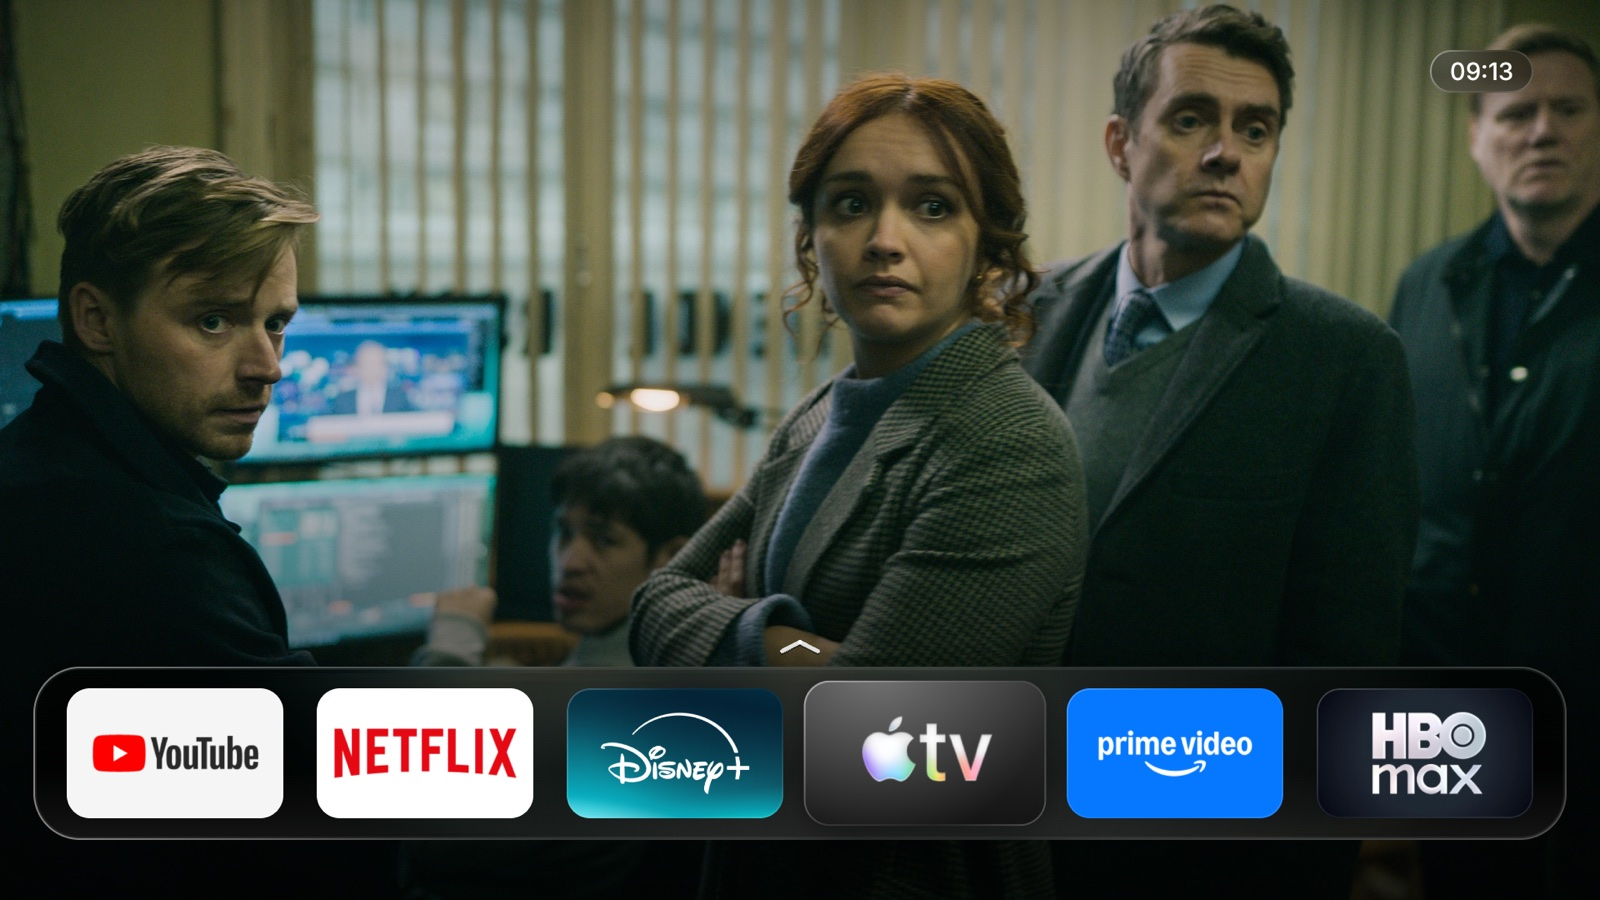
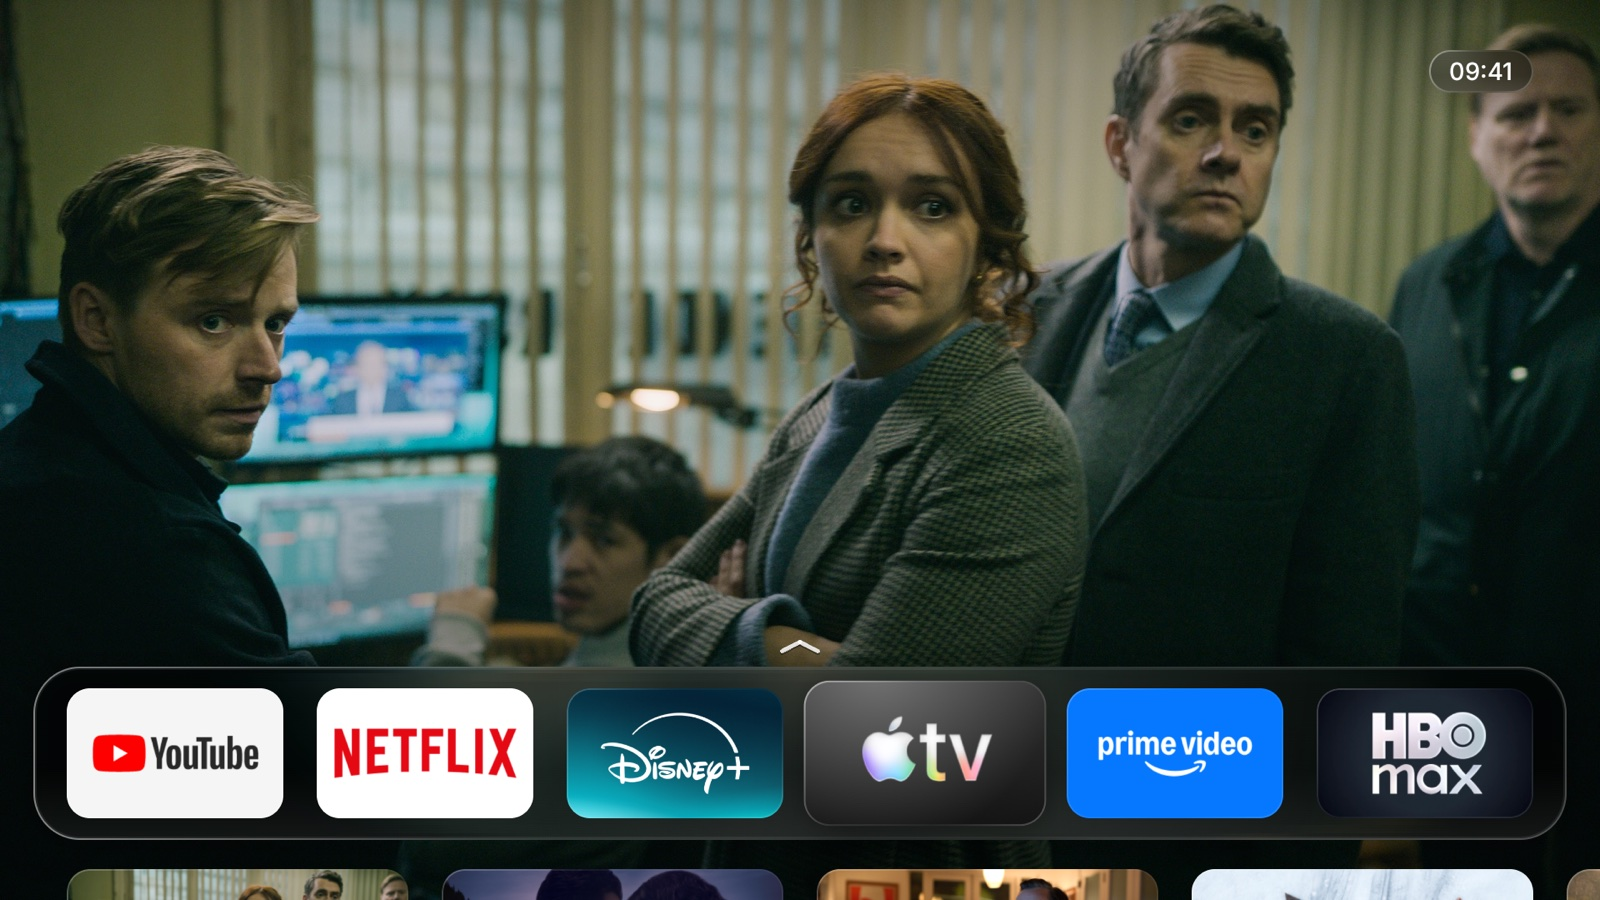
Peek the next row, brighten the stage, and enlarge YouTube's tiles
Compared against Apple's Top Shelf guidelines and tvOS 26 screenshot:

- The tops of Continue Watching peek in below the dock at rest, as the
  next row does on tvOS. Its heading appears when focus moves down.
- Artwork stays bright down behind the dock, whose glass does the
  dimming. Full screen still darkens toward the bottom for its text.
- Thumbnail rows, like YouTube's, use tvOS's 16:9 row size of 782 by 440
  pt, filling the stage instead of leaving its top half empty.

Trailers on the stage aren't built: none of the six dock apps publish
preview videos to the TV provider. README home image and text updated.

Changed region(s): [[0.0312, 0.9644, 1.0, 1.0], [0.1562, 0.6533, 0.25, 0.7156], [0.9062, 0.0622, 0.9375, 0.0933]]

diff --git a/feature/home/src/main/java/app/lumen/feature/home/UpNextRow.kt b/feature/home/src/main/java/app/lumen/feature/home/UpNextRow.kt
@@ -30,6 +30,7 @@ import androidx.compose.ui.layout.boundsInRoot
 import androidx.compose.ui.layout.onGloballyPositioned
 import androidx.compose.ui.platform.LocalContext
 import androidx.compose.ui.platform.LocalView
+import androidx.compose.ui.unit.Dp
 import androidx.compose.ui.unit.dp
 import app.lumen.core.apps.UpNextItem
 import app.lumen.core.apps.openUpNext
@@ -45,7 +46,8 @@ import app.lumen.core.designsystem.LumenType
  * and their title, episode and time left only while focused, after the name [appName] gives their
  * app when the row mixes apps. Holding select on a tile asks for [onOptions], with its bounds in the
  * window to anchor a menu to. [firstTile] takes focus when something enters the row for the first
- * time, or when a tile goes away. [onItemFocused] hears which tile has focus.
+ * time, or when a tile goes away. [onItemFocused] hears which tile has focus. [headingAlpha] is read
+ * while drawing, so it can animate without recomposing the row.
  */
 @OptIn(ExperimentalComposeUiApi::class)
 @Composable
@@ -57,9 +59,19 @@ internal fun UpNextRow(
     modifier: Modifier = Modifier,
     appName: (String) -> String? = { null },
     onItemFocused: (UpNextItem) -> Unit = {},
+    headingAlpha: () -> Float = { 1f },
+    tileWidth: Dp = LumenDimens.ProgramTileWidth,
+    tileHeight: Dp = LumenDimens.ProgramTileHeight,
+    focusScale: Float = PROGRAM_FOCUS_SCALE,
+    idleFocusScale: Float = PROGRAM_IDLE_FOCUS_SCALE,
 ) {
     Column(modifier) {
-        LumenText(heading, LumenType.Section, Modifier.padding(start = LumenDimens.SafeHorizontal), color = LumenColors.TextSecondary)
+        LumenText(
+            heading,
+            LumenType.Section,
+            Modifier.padding(start = LumenDimens.SafeHorizontal).graphicsLayer { alpha = headingAlpha() },
+            color = LumenColors.TextSecondary,
+        )
         LazyRow(
             modifier = Modifier
                 .fillMaxWidth()
@@ -69,7 +81,17 @@ internal fun UpNextRow(
             horizontalArrangement = Arrangement.spacedBy(LumenDimens.TileSpacing),
         ) {
             itemsIndexed(items) { index, item ->
-                UpNextTile(item, appName(item.packageName), onOptions, onItemFocused, if (index == 0) Modifier.focusRequester(firstTile) else Modifier)
+                UpNextTile(
+                    item,
+                    appName(item.packageName),
+                    onOptions,
+                    onItemFocused,
+                    if (index == 0) Modifier.focusRequester(firstTile) else Modifier,
+                    tileWidth,
+                    tileHeight,
+                    focusScale,
+                    idleFocusScale,
+                )
             }
         }
     }
@@ -83,6 +105,10 @@ private fun UpNextTile(
     onOptions: (UpNextItem, Rect) -> Unit,
     onFocused: (UpNextItem) -> Unit,
     focusModifier: Modifier,
+    width: Dp,
+    height: Dp,
+    focusScale: Float,
+    idleFocusScale: Float,
 ) {
     val context = LocalContext.current
     val view = LocalView.current
@@ -92,7 +118,7 @@ private fun UpNextTile(
     var focused by remember { mutableStateOf(false) }
     // Timed like a tile's own label, so the text arrives with the tile's growth.
     val labelAlpha by animateFloatAsState(if (focused) 1f else 0f, tween(220), label = "upNextLabel")
-    Column(Modifier.width(LumenDimens.ProgramTileWidth)) {
+    Column(Modifier.width(width)) {
         AppTile(
             label = item.title,
             art = art,
@@ -103,11 +129,11 @@ private fun UpNextTile(
                 openUpNext(context, item, zoom.toBundle())
             },
             onLongClick = { onOptions(item, bounds[0]) },
-            width = LumenDimens.ProgramTileWidth,
-            height = LumenDimens.ProgramTileHeight,
+            width = width,
+            height = height,
             showLabel = false,
-            focusScale = PROGRAM_FOCUS_SCALE,
-            idleFocusScale = PROGRAM_IDLE_FOCUS_SCALE,
+            focusScale = focusScale,
+            idleFocusScale = idleFocusScale,
             tileModifier = focusModifier
                 .onFocusChanged {
                     focused = it.isFocused

diff --git a/feature/home/src/main/java/app/lumen/feature/home/HomeScreen.kt b/feature/home/src/main/java/app/lumen/feature/home/HomeScreen.kt
@@ -83,8 +83,10 @@ import kotlinx.coroutines.flow.collectLatest
 import kotlinx.coroutines.flow.distinctUntilChanged
 import kotlinx.coroutines.flow.map
 
-/** The dock, plus the room below it. What's further down stays out of sight until focus goes there, leaving the stage calm. */
+/** The dock, plus a peek of what's below it, as on tvOS, where the tops of the next row hint at more. */
 private val ShelfAreaHeight = LumenDimens.TileHeight + LumenDimens.DockInset * 2 + 36.dp
+/** Lifts Continue Watching at rest, into the room its heading leaves while hidden, so its tiles' tops show. */
+private val ContinuePeekLift = 15.dp
 private const val SHELF_KEY = "shelf"
 private const val CONTINUE_KEY = "continue"
 private const val GRID_KEY = "grid"
@@ -421,7 +423,7 @@ fun HomeScreen(
 
                 // The dock and grid slide off for the full-screen Top Shelf, staying in place for focus to come back to.
                 val slidOff by animateFloatAsState(if (isFullScreen) 1f else 0f, tween(450, easing = FastOutSlowInEasing), label = "slidOff")
-                val belowAlpha by animateFloatAsState(if (browsingBelow) 1f else 0f, tween(300), label = "belowAlpha")
+                val belowAmount by animateFloatAsState(if (browsingBelow) 1f else 0f, tween(300), label = "belowAmount")
                 Column(Modifier.fillMaxSize()) {
                     StageTitle(
                         hero = hero,
@@ -475,8 +477,9 @@ fun HomeScreen(
                                     firstTile = continueFirstTile,
                                     onOptions = { item, bounds -> programOptionsFor = ProgramOptions(item, bounds, removable = true) },
                                     appName = { pkg -> state.allApps.find { it.packageName == pkg }?.label },
+                                    headingAlpha = { belowAmount },
                                     modifier = Modifier
-                                        .graphicsLayer { alpha = belowAlpha }
+                                        .graphicsLayer { translationY = -(1f - belowAmount) * ContinuePeekLift.toPx() }
                                         .padding(top = 4.dp, bottom = 4.dp)
                                         .onFocusChanged {
                                             continueHasFocus = it.hasFocus
@@ -496,9 +499,7 @@ fun HomeScreen(
                                 lifted = editor.lifted,
                                 firstTileFocus = if (dock.isEmpty()) firstFocus else null,
                                 settingsFocus = settingsFocus,
-                                modifier = Modifier
-                                    .graphicsLayer { alpha = belowAlpha }
-                                    .onFocusChanged { if (it.hasFocus) browsingBelow = true },
+                                modifier = Modifier.onFocusChanged { if (it.hasFocus) browsingBelow = true },
                             )
                         }
                     }

diff --git a/core/apps/src/main/java/app/lumen/core/apps/TopShelfRepository.kt b/core/apps/src/main/java/app/lumen/core/apps/TopShelfRepository.kt
@@ -59,7 +59,7 @@ class ShelfArt(
 class UpNextItem(
     val packageName: String,
     val title: String,
-    /** Tile art at [TopShelfRepository.THUMB_WIDTH] by [TopShelfRepository.THUMB_HEIGHT], with the progress bar drawn in. */
+    /** Tile art with the progress bar drawn in: 16:9, sized for the row it's shown in. */
     val thumbnail: Bitmap,
     /** Where the user is, like "S3, E4 · 23 min left", leaving out whatever the app didn't say. */
     val detail: String?,
@@ -258,7 +258,7 @@ class TopShelfRepository(context: Context) {
         val recommendations = if (onlySmallArt) {
             preview.map { program ->
                 val art = download(program.art.first())
-                async(Dispatchers.Default) { art.await()?.let { upNextItem(packageName, program, it) } }
+                async(Dispatchers.Default) { art.await()?.let { upNextItem(packageName, program, it, large = true) } }
             }.awaitAll().filterNotNull()
         } else {
             emptyList()
@@ -288,9 +288,13 @@ class TopShelfRepository(context: Context) {
     }
 
     /** The tile for [program], or null if it has no title or its art is too small to use. */
-    private fun upNextItem(packageName: String, program: Program, art: ByteArray): UpNextItem? {
+    private fun upNextItem(packageName: String, program: Program, art: ByteArray, large: Boolean = false): UpNextItem? {
         val title = program.title?.takeIf(String::isNotBlank) ?: return null
-        val thumbnail = decodeArt(art, THUMB_WIDTH, THUMB_HEIGHT, upscale = true, minWidth = MIN_THUMB_WIDTH) ?: return null
+        val thumbnail = if (large) {
+            decodeArt(art, LARGE_THUMB_WIDTH, LARGE_THUMB_HEIGHT, upscale = false, minWidth = MIN_THUMB_WIDTH)
+        } else {
+            decodeArt(art, THUMB_WIDTH, THUMB_HEIGHT, upscale = true, minWidth = MIN_THUMB_WIDTH)
+        } ?: return null
         program.progress?.let { drawProgress(thumbnail, it) }
         return UpNextItem(packageName, title, thumbnail, program.detail, program.intentUri, program.place)
     }
@@ -431,6 +435,10 @@ class TopShelfRepository(context: Context) {
         /** Up Next tiles are 16:9, unlike the dock's; this is their focused size in pixels. */
         const val THUMB_WIDTH = 448
         const val THUMB_HEIGHT = 252
+
+        /** The most a tile in an app's own row decodes, its size on screen; smaller art keeps its own size. */
+        private const val LARGE_THUMB_WIDTH = 782
+        private const val LARGE_THUMB_HEIGHT = 440
 
         private const val TAG = "TopShelf"
         private val WATCH_NEXT_URI = WatchNextPrograms.CONTENT_URI

diff --git a/feature/home/src/main/java/app/lumen/feature/home/Hero.kt b/feature/home/src/main/java/app/lumen/feature/home/Hero.kt
@@ -131,6 +131,10 @@ internal fun Hero(
                     firstTile = firstRowTile,
                     onOptions = onProgramOptions,
                     onItemFocused = onRecommendationFocused,
+                    tileWidth = LumenDimens.ShelfRowTileWidth,
+                    tileHeight = LumenDimens.ShelfRowTileHeight,
+                    focusScale = SHELF_ROW_FOCUS_SCALE,
+                    idleFocusScale = SHELF_ROW_IDLE_FOCUS_SCALE,
                     modifier = Modifier.offset(y = LumenDimens.SafeVertical - 6.dp),
                 )
             }
@@ -139,6 +143,10 @@ internal fun Hero(
 }
 
 private val HeroTitleMaxWidth = 560.dp
+
+/** Large tiles grow less, so they stay clear of their neighbors. */
+private const val SHELF_ROW_FOCUS_SCALE = 1.05f
+private const val SHELF_ROW_IDLE_FOCUS_SCALE = 1.07f
 
 /**
  * The [hero]'s own artwork from its TV channels, once focus has rested on it for a moment, so
@@ -272,10 +280,11 @@ internal fun Backdrop(
 }
 
 /**
- * The app's artwork, full bleed, kept as bright as the dock's legibility allows, since at rest
- * there's nothing else on the stage. In full screen ([hasText]) a pool of shade at the lower left
- * keeps the program's text readable over any lettering in the art. Drawn onto [bitmap] itself, which
- * is freshly decoded for this, so a full-screen bitmap is never copied. Opaque. Blocking.
+ * The app's artwork, full bleed. At rest it stays bright right down behind the dock, as on tvOS,
+ * where the dock's own glass does the dimming. In full screen ([hasText]) it darkens toward the
+ * bottom, with a pool of shade at the lower left, keeping the program's text and the page dots
+ * readable over anything in the art. Drawn onto [bitmap] itself, which is freshly decoded for this,
+ * so a full-screen bitmap is never copied. Opaque. Blocking.
  */
 private fun bakeArtwork(bitmap: Bitmap, hasText: Boolean): Bitmap {
     val canvas = Canvas(bitmap)
@@ -284,7 +293,7 @@ private fun bakeArtwork(bitmap: Bitmap, hasText: Boolean): Bitmap {
     val scrim = Paint().apply { isDither = true }
     scrim.shader = LinearGradient(
         0f, 0f, 0f, height,
-        intArrayOf(0x33000000, 0x00000000, 0x1A000000, 0xB3000000.toInt()),
+        if (hasText) intArrayOf(0x33000000, 0x00000000, 0x1A000000, 0xB3000000.toInt()) else intArrayOf(0x33000000, 0x00000000, 0x0D000000, 0x59000000),
         floatArrayOf(0f, 0.25f, 0.55f, 1f),
         Shader.TileMode.CLAMP,
     )

diff --git a/core/designsystem/src/main/java/app/lumen/core/designsystem/Tokens.kt b/core/designsystem/src/main/java/app/lumen/core/designsystem/Tokens.kt
@@ -51,6 +51,10 @@ object LumenDimens {
     val ProgramTileWidth = 205.dp
     val ProgramTileHeight = 115.dp
 
+    /** tvOS's Top Shelf row of 16:9 content, 782 by 440 pt: two tiles across with a peek of the third. */
+    val ShelfRowTileWidth = 391.dp
+    val ShelfRowTileHeight = 220.dp
+
     /** The dock's glass around its tiles: tight enough that a focused tile nearly fills it, as on tvOS. */
     val DockInset = 13.dp
 

diff --git a/README.md b/README.md
@@ -8,7 +8,7 @@ Atrium replaces the Google TV home screen with one modelled on Apple TV's, inclu
 
 ## The home screen
 
-Move along the top row and the screen fills with artwork from that app, with nothing else on it. A small arrow shows there's more above.
+Move along the top row and the screen fills with artwork from that app, with nothing else on it. A small arrow shows there's more above, and the tops of the row below peek in at the bottom edge.
 
 Press **Up** and the picture opens to full screen, with **Play** and page dots. **Left** and **Right** change program, and it moves on by itself after a while.
 
@@ -18,7 +18,7 @@ Press **Up** and the picture opens to full screen, with **Play** and page dots. 
 
 ![Drops of God in full screen, with its title and a Play button](docs/images/full-screen.jpg)
 
-Apps with no artwork light the screen in their own color instead. Apps that only share small thumbnails, like YouTube, show a row of them above the top row, so nothing gets stretched and blurry, and the screen takes on the color of the selected thumbnail.
+Apps with no artwork light the screen in their own color instead. Apps that only share small thumbnails, like YouTube, show a row of large tiles above the top row, so nothing gets stretched and blurry, and the screen takes on the color of the selected thumbnail.
 
 ## Continue Watching
 
